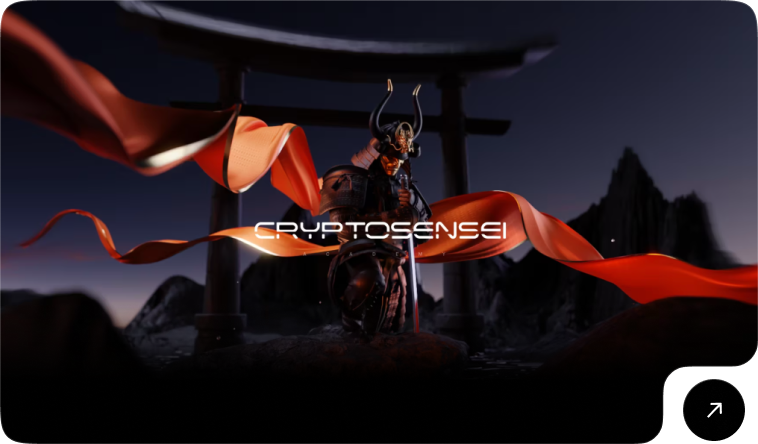
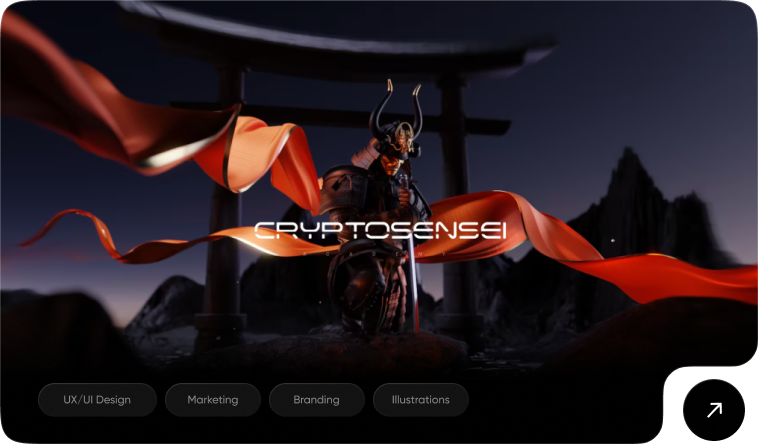
Update img and adaptive case swiper

diff --git a/src/containers/CaseView.tsx b/src/containers/CaseView.tsx
@@ -14,7 +14,7 @@ const projects = [
     {
         id: 0,
         date: '01.10.2024',
-        title: 'The name of the project released 1',
+        title: 'Cryptosensei',
         description: 'Website design UX/UI',
         img: '/img/interface/bg-footer-case1.png',
         imgMobile: '/img/interface/bg-footer-case1.mobile.png',
@@ -24,32 +24,33 @@ const projects = [
     {
         id: 1,
         date: '01.10.2030',
-        title: 'The name of the project released 2',
+        title: 'Saku Monsters',
         description: 'App design UX/UI',
-        img: '/img/interface/bg-footer-case1.png',
-        imgMobile: '/img/interface/bg-footer-case1.mobile.png',
+        img: '/img/interface/bg-footer-case2.png',
+        imgMobile: '/img/interface/bg-footer-case2.mobile.png',
         link: '/cases',
         tags: [{ name: 'UX/UI Disign' }, { name: 'Branding' }, { name: 'Illustations' }]
     },
     {
         id: 2,
         date: '01.10.3000',
-        title: 'The name of the project released 3',
+        title: 'Mel`s Bar',
         description: 'Design XD',
-        img: '/img/interface/bg-footer-case1.png',
-        imgMobile: '/img/interface/bg-footer-case1.mobile.png',
+        img: '/img/interface/bg-footer-case3.png',
+        imgMobile: '/img/interface/bg-footer-case3.mobile.png',
         link: '/cases',
         tags: [{ name: 'Marketing' }, { name: 'Branding' }, { name: 'Illustations' }]
-    },
+    }
+    ,
     {
-        id: 2,
+        id: 3,
         date: '01.10.3000',
-        title: 'The name of the project released 4',
+        title: 'In Pulse',
         description: 'Design XD',
-        img: '/img/interface/bg-footer-case1.png',
-        imgMobile: '/img/interface/bg-footer-case1.mobile.png',
+        img: '/img/interface/bg-footer-case4.png',
+        imgMobile: '/img/interface/bg-footer-case4.mobile.png',
         link: '/cases',
-        tags: [{ name: 'UX/UI Disign' }]
+        tags: [{ name: 'Marketing' }, { name: 'Branding' }, { name: 'Illustations' }]
     }
 ]
 
@@ -122,7 +123,7 @@ const CaseView = () => {
 
     return (
         <>
-            <div className="relative hidden lg:flex flex-row mt-20 mb-8">
+            <div className="relative hidden lg:flex flex-row justify-between mt-20 mb-8">
                 <Cursor isGelly={true} cursorSize={10} cursorBackgrounColor='#ffffff00' cursorInnerColor='black' sizeAnimationDuration={1.5} colorAnimationDuration={1.5} />
                 <div className='flex flex-row'>
                     {/* Полоса */}
@@ -157,7 +158,7 @@ const CaseView = () => {
                         </defs>
                     </svg>
                 </div>
-                <div className="gap-3 inline-flex flex-col items-start ml-24 mt-9 z-10">
+                <div className="gap-3 inline-flex flex-col absolute items-start ml-24 mt-9 z-10">
                     <div className="opacity-[0.34] text-white leading-[140%]">{project.description}</div>
                     <div className="w-[399px] text-white text-[2.375rem] font-semibold leading-[140%]">{project.title}</div>
                     <div className="gap-2 flex items-center">
@@ -176,7 +177,7 @@ const CaseView = () => {
                     data-cursor-color={'#fff'}
                     // onMouseMove={handleMouseMove}
                     ref={swaperRef}
-                    className="w-full h-full relative cursor-pointer"
+                    className="w-[758px] h-full relative cursor-pointer"
                     href={project.link}
                 >
                     <Swiper
@@ -203,15 +204,8 @@ const CaseView = () => {
                     >
                         {projects.map((project, index) => {
                             return <SwiperSlide key={index} className="w-full">
-                                <div className="relative w-full h-full bg-contain bg-no-repeat bg-left bg-[url(/img/interface/bg-footer-case1.png)]">
-                                    {/* <Image src={project.img} fill className="object-contain" alt="project" /> */}
-                                    <div className="absolute text-[8px] ml-[1vw] xl:text-[14px] 2xl:text-[16px] z-20 w-full h-full cursor-pointer flex flex-row items-end gap-2">
-                                        {project.tags.map((item, index) => {
-                                            return <div className={style.button + " mb-[100px] xl:mb-16 2xl:mb-6"} key={index}>
-                                                {item.name}
-                                            </div>
-                                        })}
-                                    </div>
+                                <div className={"relative w-full h-full"}>
+                                    <Image src={project.img} fill className="object-contain" alt="project" />
                                 </div>
                             </SwiperSlide>
                         })}

diff --git a/src/components/interfaces/Button.tsx b/src/components/interfaces/Button.tsx
@@ -31,7 +31,7 @@ const Button = ({ className, href, children, ...props }: { className?: string, h
             <div
                 className="absolute top-0 right-0 p-[22px] bg-[#FF4D00] rounded-full z-20 m-auto"
                 style={{ 
-                    filter: "drop-shadow(0px 0px 71.791px rgba(255, 77, 0, 0.90)) drop-shadow(0px 0px 92.444px rgba(255, 77, 0, 0.60))",
+                    filter: "drop-shadow(0px 0px 71.791px rgba(255, 77, 0, 0.90))",
                     transform: isHovered ? 'rotate(45deg)' : 'rotate(0deg)',
                     transition: 'transform 0.4s ease' 
                 }}
